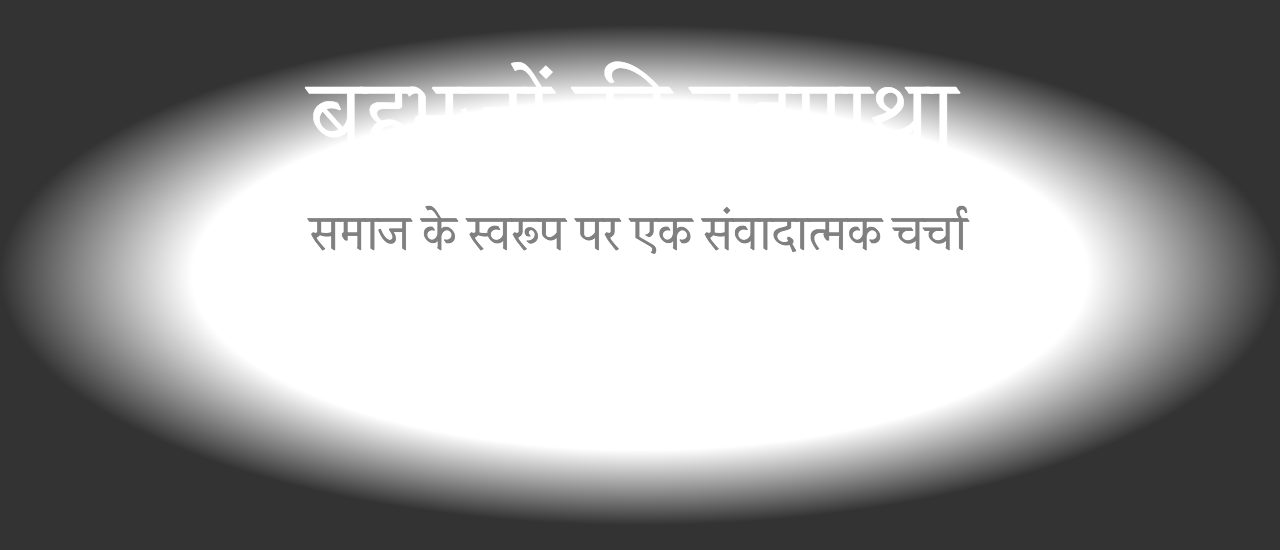
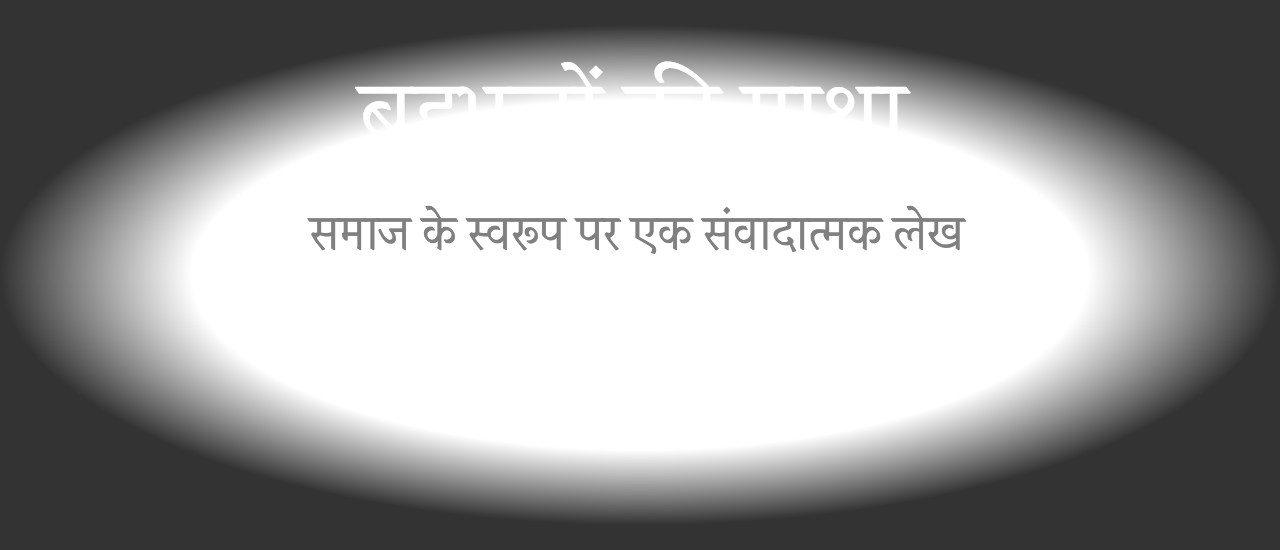
corrections and enhancements

diff --git a/index.html b/index.html
@@ -3,30 +3,30 @@
 <head>
 
 	<!-- Place this data between the <head> tags of your website -->
-	<title>बहुभुजों की बहुगाथा - समाज के स्वरूप पर एक संवादात्मक चर्चा</title>
-	<meta name="description" content="निर्दोष चयनों से उत्पन होने वाले हानिकारक समाज पे एक संवादात्मक चर्चा।" />
+	<title>बहुभुजों की गाथा - समाज के स्वरूप पर एक संवादात्मक लेख</title>
+	<meta name="description" content="निर्दोष चयनों से उत्पन होने वाले हानिकारक समाज पे एक संवादात्मक लेख।" />
 	<link rel="icon" type="image/png" href="favicon.png">
 
 	<!-- Schema.org markup for Google+ -->
-	<meta itemprop="name" content="बहुभुजों की बहुगाथा">
-	<meta itemprop="description" content="निर्दोष चयनों से उत्पन होने वाले हानिकारक समाज पे एक संवादात्मक चर्चा।">
+	<meta itemprop="name" content="बहुभुजों की गाथा">
+	<meta itemprop="description" content="निर्दोष चयनों से उत्पन होने वाले हानिकारक समाज पे एक संवादात्मक लेख।">
 	<meta itemprop="image" content="http://ncase.me/polygons/social/thumbnail.png">
 
 	<!-- Twitter Card data -->
 	<meta name="twitter:card" content="summary_large_image">
 	<meta name="twitter:site" content="@ncasenmare">
-	<meta name="twitter:title" content="बहुभुजों की बहुगाथा">
-	<meta name="twitter:description" content="निर्दोष चयनों से उत्पन होने वाले हानिकारक समाज पे एक संवादात्मक चर्चा।">
+	<meta name="twitter:title" content="बहुभुजों की गाथा">
+	<meta name="twitter:description" content="निर्दोष चयनों से उत्पन होने वाले हानिकारक समाज पे एक संवादात्मक लेख।">
 	<meta name="twitter:creator" content="@vihartvihart">
 	<meta name="twitter:image" content="http://ncase.me/polygons/social/thumbnail.png">
 
 	<!-- Open Graph data -->
-	<meta property="og:title" content="बहुभुजों की बहुगाथा">
+	<meta property="og:title" content="बहुभुजों की गाथा">
 	<meta property="og:type" content="website">
 	<meta property="og:url" content="http://ncase.me/polygons">
 	<meta property="og:image" content="http://ncase.me/polygons/social/thumbnail.png">
-	<meta property="og:description" content="निर्दोष चयनों से उत्पन होने वाले हानिकारक समाज पे एक संवादात्मक चर्चा।">
-	<meta property="og:site_name" content="बहुभुजों की बहुगाथा">
+	<meta property="og:description" content="निर्दोष चयनों से उत्पन होने वाले हानिकारक समाज पे एक संवादात्मक लेख।">
+	<meta property="og:site_name" content="बहुभुजों की गाथा">
 
 	<!-- CSS -->
 	<link href="css/index.css" rel="stylesheet" type="text/css">
@@ -52,20 +52,20 @@
 
 		<p><strong>यह निर्दोष चयनों से उत्पन होने वाले हानिकारक समाज की कहानी है।</strong></p>
 		<p>
-			इन प्यारे बहुभुजों में से कुछ त्रिकोण हैं, कुछ चौकोर। पर ये बहुभुज थोड़े से "आकारवादी" हैं। पर बहुत ही थोड़े से! वास्तव में हर कोई विविध पड़ोसियों के बीच <i>ही</i> सुखी है।
+			इन प्यारे बहुभुजों में से कुछ त्रिकोण हैं, कुछ चौकोर। और सब के सब थोड़े से "आकारवादी" हैं। पर बहुत ही थोड़े से! वास्तव में हर कोई विविध पड़ोसियों के बीच <i>ही</i> सुखी है।
 		</p>
 
 		<iframe id="mini_intro" playable src="play/mini/mini_intro.html" width="800" height="385" scrolling="no" style="margin:0 auto;display:block" embedded></iframe>
 
 		<p>
-			किसी बहुभुज को तभि हिलाया जा सकता है यदि वह अपने पड़ोसियों के बीच उदास हो।
-			यदि वह अपने स्थान पर सुखी है, <i>तो उसे तब तक नहीं हिलाया जा सकता जब तक वह फिर से अपने पड़ोसियों के बीच उदास न हो जाए</i>।
+			एक बहुभुज को तभी हिलाया जा सकता है यदि वह अपने पड़ोसियों के बीच उदास हो।
+			गर वह अपने स्थान पर सुखी है, <i>तो उसे तब तक नहीं हिलाया जा सकता जब तक वह फिर से अपने पड़ोसियों के बीच उदास न हो जाए</i>।
 			यह बहुभुज एक सरल नीयम का पालन करते हैं:
 		</p>
 
 		<p style="text-align:center">
 			<b>
-			“यदि मेरे पड़ोसियों में कम से कम १/३ मेरे हम-आकार नहीं हैं, तो मैं अपना स्थान बदलना चाहूँगा।”
+			“यदि मेरे पड़ोसियों में <i>हमआकार</i> १/३ से कम हैं, तो मैं अपना स्थान बदलना चाहूँगा।”
 			</b>
 		</p>
 		<iframe playable src="play/mini/mini_unhappy.html" width="250" height="320" scrolling="no" style="float:left; margin:0; margin-left:10px; position:relative; left:-30px"  embedded></iframe>
@@ -77,7 +77,7 @@
 		</div>
 
 		<p>
-			कितना हानिहीन आकार-समाज है ना यह? हर बहुभुज विविध पड़ोसियों के बीच सुखी है। 
+			कितना हानिहीन आकार समाज है ना यह? हर बहुभुज विविध पड़ोसियों के बीच सुखी है। 
 			क्या इनका लघु आकारवाद इस समाज के स्वरूप को प्रभावित कर पाएगा? आईए देखें..
 		</p>
 		<div class="instruction">
@@ -95,20 +95,20 @@
 	<!-- CHAPTER -->
 	<div class="chapter"> 
 		<p>
-			देखा आपने, यह आकार-समाज किस तरह पृथक हो गया?
+			देखा आपने, यह आकार समाज किस तरह पृथक हो गया?
 		</p>
 		<p>
-			कभी एक पड़ोस में चौकोर ज़्यादा हो जाते हैं, पर यह उनका दोष नहीं यदि त्रिकोण वहाँ से प्रवास कर जाते हैं। इसि प्रकार, किसी भी त्रिकोण-पड़ोस में एक नए चौकोर का स्वागत होगा, पर यह उनका दोष नहीं कि कोई चौकोर वहाँ बसना नहीं चाहते।
+			कभी एक पड़ोस में चौकोर ज़्यादा हो जाते हैं, पर यह उनका दोष नहीं कि त्रिकोण वहाँ से प्रवास कर जाते हैं। इसि प्रकार, किसी भी त्रिकोण-पड़ोस में एक नए चौकोर का स्वागत होगा, पर यह उनका दोष नहीं कि कोई चौकोर वहाँ बसना नहीं चाहता।
 		</p>
 		
 		<iframe id="mini_neighborhood" playable src="play/mini/mini_neighborhood.html" width="730" height="240" scrolling="no" style="margin:0 auto;display:block" embedded></iframe>
 
 		<p>
-			अगले अनुकरण में उदास बहुभुज किसी भी अनियमित स्थान पर अपने आप चले जाते हैं।
-			एक लेखा-चित्र में समय के साथ बदलती आकार-समाज की पृथक्करण मात्रा का भी चित्रण है।
+			अगले अनुरूपण में उदास बहुभुज किसी भी अनियमित स्थान पर अपने आप चले जाते हैं।
+			एक लेखाचित्र में समय के साथ बदलती आकार समाज की पृथक्करण मात्रा का भी चित्रण है।
 		</p>
 		<div class="instruction">
-			इस अनुकरण को कुछ बार चलाकर देखिए कि क्या होता है।
+			इस अनुरूपण को कुछ बार चलाकर देखिए कि क्या होता है।
 		</div>
 	</div>
 
@@ -120,7 +120,7 @@
 	<!-- CHAPTER -->
 	<div class="chapter">
 		<p>
-			यह क्यूँ हो रहा है? हर किसी का आकारवादी झुकाव बहुत ही लघु है, पर समूचा आकार-समाज जुदा हो जाता है।
+			यह क्यूँ हो रहा है? हर किसी का आकारवादी झुकाव बहुत ही लघु है, पर समूचा आकार समाज जुदा हो जाता है।
 		</p>
 		
 		<iframe id="mini_checkerboard" playable src="play/mini/mini_checkerboard.html" width="730" height="240" scrolling="no" style="margin:0 auto;display:block" embedded></iframe>
@@ -130,11 +130,11 @@
 		</p>
 		<p>	
 			समानता एक अस्थिर संतुलन है।
-			बहुत ही लघु व्यक्तिगत झुकाव पूरे समाज को पृथक्करण की चिकनी ढलान पे धकेल सकता है।
+			बहुत ही लघु व्यक्तिगत झुकाव पूरे समाज को पृथक्करण की चिकनी ढलान पर धकेल सकता है।
 			पर क्या होगा यदि इन बहुभुजों का आकारवाद समाप्त कर दिया जाए? (या बढ़ा दिया जाए?)
 		</p>
 		<div class="instruction">
-			स्लाईडर द्वारा बहुभुजों की आकारवाद मात्रा बदलें:
+			स्लाईडर द्वारा बहुभुजों का आकारवादी झुकाव बदलें:
 		</div>
 	</div>
 
@@ -159,7 +159,7 @@
 		</div>
 
 		<p>
-			तो क्या सबका आकारवादी झुकाव शून्य कर देना ही समाधान है? नहीं! वास्तविक समाज में लोग पहले से ही अनियमित ढंग से नहीं बसे होंगे। और ना ही प्रतिदिन इस प्रकार फेरबदल करेंगे।
+			तो क्या सबका आकारवादी झुकाव शून्य कर देना ही समाधान है? नहीं! वास्तविक समाज में लोग पूर्वतः अनियमित ढंग से नहीं बसे होंगे, और ना ही प्रतिदिन इस प्रकार फेरबदल करेंगे।
 		</p>
 
 		<div class="instruction">
@@ -184,7 +184,7 @@
 		<iframe id="mini_nonconform" playable src="play/mini/mini_nonconform.html" width="400" height="440" scrolling="no" style="margin:0 auto;display:block" embedded></iframe>
 
 		<p>
-			ये क्या? यद्यपि हर बहुभुज ९०% तक भी हम-आकार पड़ोसी होने से सहमत हैं, परन्तु समाज की विविधता बढ़ गयी!
+			ये क्या? यद्यपि हर बहुभुज ९०% तक भी हमआकार पड़ोसी होने से सहमत हैं, परन्तु समाज की विविधता बढ़ गयी!
 			इसी को अब बड़े स्तर पर देखते हैं।
 			अब हम बहुभुजों के आकारवादी झुकाव के साथ-साथ "विविधतावादी" झुकाव को भी बदल पाएँगे।
 		</p>
@@ -206,7 +206,7 @@
 		</p>
 		<p style="text-align:center">
 			<b>
-				इन सब को
+				इन बहुभुजों को
 				<span style="color:hsl(0,90%,60%)">मि</span>
 				<span style="color:hsl(108,90%,60%)">त्र</span>
 				<span style="color:hsl(216,90%,60%)">ता</span>	
@@ -223,7 +223,7 @@
 		</p>
 
 		<div class="instruction">
-			अंततः, एक सम्पूर्ण अनुकरण, प्रयोग के लिए।
+			अंततः, एक सम्पूर्ण अनुरूपण, प्रयोग के लिए।
 		</div>
 	</div>
 
@@ -246,7 +246,7 @@
 		<p>
 			<b>२. अतीत वर्तमान को प्रभावित करता है।</b>
 			<br>
-			मेज़ पर खाना गीराना बंद करने से वह अपने आप हमेशा साफ नहीं रहता। 
+			मेज़ पर खाना गीराना बंद करने से वह अपने आप हमेशा साफ नहीं रहेगा। 
 			समानता बनाए रखना स्वच्छता बनाए रखने के समान है। इसके लिए निरंतर श्रम करने की ज़रूरत है।
 		</p>
 		<p>
@@ -270,14 +270,14 @@
 				यह पृथक्करण की चर्चा नोबेल पुरस्क्रित सिद्धांतकार Thomas Schelling के कार्य पर आधारित है; विशेषतः उनके १९७१ में प्रकाशित लेख, 
 				<a target="_blank" href="http://www.stat.berkeley.edu/~aldous/157/Papers/Schelling_Seg_Models.pdf">
 				Dynamic Models of Segregation</a> पर।
-				इस लेख के तत्वों पे आगे गठन करते हुए, हमने दर्शाया कि कैसे बहुत ही थोड़ी विविधता की माँग से पूर्व-पृथक्कृत समाज को सुधारा जा सकता है। 
+				इस लेख के तत्वों पे आगे गठन करते हुए, हमने दर्शाया कि कैसे ज़रा सी विविधता की माँग से पूर्व-पृथक्कृत समाज को सुधारा जा सकता है। 
 				दूसरे शब्दों में, हमने उनके माॅडल को एक सुखद अंजाम दिया। 
 
 				<br><br>
 
 				यद्यपि Schelling के माॅडल का सार सही है, परन्तु वास्तविक जीवन निश्चित रूप से काफि ज़्यादा जटिल है। 
 				यदि आपकी वास्तविक डाटा में रूचि है, तो आप W.A.V. Clark का १९९१ में प्रकाशित लेख,
-				<a target="_blank" href="http://smg.media.mit.edu/library/Clark.ResidentialSegregation.pdf">A Test of the Schelling Segregation Model</a> पढ़ सकते हैं।
+				<a target="_blank" href="http://smg.media.mit.edu/library/Clark.ResidentialSegregation.pdf">A Test of the Schelling Segregation Model</a>, पढ़ सकते हैं।
 
 				<br><br>
 
@@ -291,7 +291,7 @@
 
 				<br><br>
 
-				आज का "मूल नैतिक संदेश&trade;" है कि अपने आस-पड़ोस में ज़रा सी विविधता की माँग व्यापक बदलाव का कारण बन सकती है। 
+				आज का "मूल नैतिक संदेश&trade;" यह है कि अपने आस-पड़ोस में ज़रा सी विविधता की माँग व्यापक बदलाव का कारण बन सकती है। 
 				<a target="_blank" href="http://plzdiversifyyourpanel.tumblr.com/">Plz Diversify Your Panel</a> एक पहल है जहाँ वक्ता प्रण लेते हैं कि वे ऐसे पैनल में भाग नहीं लेंगे जिनमें विविधता का अभाव हो।  
 
 				<br><br>
@@ -327,7 +327,7 @@
 					- ओपन सोर्स आदर्श से जुड़ी स्त्रियों का समर्थन करते हैं
 					<br>
 					<a target="_blank" href="http://www.patreon.com/ncase">Nicky's Patreon</a>
-					- सार्वजनिक क्षेत्र में संवादात्मक लेख बनाती हैं (इस लेख की तरह!)
+					- सार्वजनिक क्षेत्र में संवादात्मक कृतियाँ बनाती है (इस लेख की तरह!)
 
 				</span>
 

diff --git a/play/outro/outro.html b/play/outro/outro.html
@@ -65,12 +65,12 @@
 
 			शेयर कीजिए<span style="position:relative;top:-5px">:</span>
 
-			<a data-popup-url="https://www.facebook.com/sharer.php?u=http%3A%2F%2Fncase.me%2Fpolygons%2F&amp;t=बहुभुजों की बहुगाथा: निर्दोष चयनों से उत्पन होने वाले हानिकारक समाज पे एक संवादात्मक चर्चा।"
+			<a data-popup-url="https://www.facebook.com/sharer.php?u=http%3A%2F%2Fncase.me%2Fpolygons%2F&amp;t=बहुभुजों की गाथा: निर्दोष चयनों से उत्पन होने वाले हानिकारक समाज पे एक संवादात्मक लेख।"
 				data-popup-width="626" data-popup-height="436"
 				onclick="return sharePopup.call(this,event);">
 				<img src="icons/facebook.png" width="60" height="60"/></a>
 
-			<a data-popup-url="https://twitter.com/share?url=http%3A%2F%2Fncase.me%2Fpolygons%2F&amp;text=बहुभुजों की बहुगाथा: निर्दोष चयनों से उत्पन होने वाले हानिकारक समाज पे एक संवादात्मक चर्चा। @vihartvihart एवं @ncasenmare द्वारा।"
+			<a data-popup-url="https://twitter.com/share?url=http%3A%2F%2Fncase.me%2Fpolygons%2F&amp;text=बहुभुजों की गाथा: निर्दोष चयनों से उत्पन होने वाले हानिकारक समाज पे एक संवादात्मक लेख। @vihartvihart एवं @ncasenmare द्वारा।"
 				data-popup-width="640" data-popup-height="400"
 				onclick="return sharePopup.call(this,event);">
 				<img src="icons/twitter.png" width="60" height="60"/></a>
@@ -80,12 +80,12 @@
 				onclick="return sharePopup.call(this,event);">
 				<img src="icons/googleplus.png" width="60" height="60"/></a>
 
-			<a data-popup-url="https://www.tumblr.com/share/link?url=http%3A%2F%2Fncase.me%2Fpolygons%2F&amp;name=बहुभुजों की बहुगाथा&amp;description=निर्दोष चयनों से उत्पन होने वाले हानिकारक समाज पे एक संवादात्मक चर्चा।"
+			<a data-popup-url="https://www.tumblr.com/share/link?url=http%3A%2F%2Fncase.me%2Fpolygons%2F&amp;name=बहुभुजों की गाथा&amp;description=निर्दोष चयनों से उत्पन होने वाले हानिकारक समाज पे एक संवादात्मक लेख।"
 				data-popup-width="446" data-popup-height="430"
 				onclick="return sharePopup.call(this,event);">
 				<img src="icons/tumblr.png" width="60" height="60"/></a>
 
-			<a href="http://www.reddit.com/submit" onclick="window.open('http://www.reddit.com/submit?v=5&amp;noui&amp;jump=close&amp;url='+encodeURIComponent(location.href)+'&amp;title='+encodeURIComponent(document.title), 'बहुभुजों की बहुगाथा','toolbar=no,width=840,height=750'); return false;">
+			<a href="http://www.reddit.com/submit" onclick="window.open('http://www.reddit.com/submit?v=5&amp;noui&amp;jump=close&amp;url='+encodeURIComponent(location.href)+'&amp;title='+encodeURIComponent(document.title), 'बहुभुजों की गाथा','toolbar=no,width=840,height=750'); return false;">
         		<img src="icons/reddit.png" alt="submit to reddit" width="60" height="60" border="0"/></a>
 
 			<a href="http://www.stumbleupon.com/submit?url=http://ncase.me/polygons/" target="_blank">
@@ -104,7 +104,7 @@
 				हम हैं - <a href="http://vihart.com/" target="_blank">vi hart</a> और <a href="http://www.patreon.com/ncase" target="_blank">nicky case</a>.
 			</div>
 			<div style="width:600px; margin:25px auto; font-size:18px; letter-spacing:0; font-weight:normal">
-				हमें बताईए कि आप "बहुभुजों की बहुगाथा" का किस प्रकार उपयोग और प्रयोग कर रहे हैं!
+				हमें बताईए कि आप "बहुभुजों की गाथा" का किस प्रकार उपयोग और प्रयोग कर रहे हैं!
 				<br>
 				हमें
 				<a href="https://twitter.com/vihartvihart" target="_blank">@vihartvihart</a> और 

diff --git a/play/intro/intro.html b/play/intro/intro.html
@@ -39,7 +39,7 @@
 		<canvas id="canvas" width="1280" height="300" style="position:absolute;bottom:0"></canvas>
 		<div id="intro_shading"></div>
 		<div id="intro_text">
-			द्वारा <a href="http://vihart.com/" target="_blank">vi hart</a> + <a href="http://www.patreon.com/ncase" target="_blank">nicky case</a>
+			<a href="http://vihart.com/" target="_blank">vi hart</a> + <a href="http://www.patreon.com/ncase" target="_blank">nicky case</a> द्वारा 
 			<div style='font-size:14px; letter-spacing:0; line-height:20px; margin-top:15px'>
 				<a target="_parent" href="http://ncase.me/polygons-es">español</a>
 				|

diff --git a/play/automatic/automatic_sandbox.html b/play/automatic/automatic_sandbox.html
@@ -21,7 +21,7 @@
 			</div>
 
 			मैं स्थान बदलूँगा यदि <span class="highlight"><span id="bias_text">33%</span> से कम</span> 
-			या <span class="highlight"><span id="nonconform_text">100%</span> से ज़्यादा</span> पड़ोसी हम-आकार हों
+			या <span class="highlight"><span id="nonconform_text">100%</span> से ज़्यादा</span> पड़ोसी हमआकार हों
 			<br>
 			<div id="slider"></div>
 			<br>

diff --git a/play/automatic/automatic4.html b/play/automatic/automatic4.html
@@ -16,7 +16,7 @@
 			</div>
 
 			मैं स्थान बदलूँगा यदि <span class="highlight"><span id="bias_text">33%</span> से कम</span> 
-			या <span class="highlight"><span id="nonconform_text">100%</span> से ज़्यदा</span> पड़ोसी हम-आकार हों
+			या <span class="highlight"><span id="nonconform_text">100%</span> से ज़्यदा</span> पड़ोसी हमआकार हों
 			<br>
 			<div id="slider"></div>
 			<br>

diff --git a/play/automatic/automatic2.html b/play/automatic/automatic2.html
@@ -15,7 +15,7 @@
 				<div id="stats_text"></div>
 			</div>
 
-			यदि मेरे हम-आकार पड़ोसी <span class="highlight"><span id="bias_text">33%</span> से कम हैं</span> तो मैं स्थान बदलूँगा
+			यदि मेरे हमआकार पड़ोसी <span class="highlight"><span id="bias_text">33%</span> से कम हैं</span> तो मैं स्थान बदलूँगा
 			<br>
 			<div id="slider"></div>
 			<br>

diff --git a/play/automatic/automatic3.html b/play/automatic/automatic3.html
@@ -15,7 +15,7 @@
 				<div id="stats_text"></div>
 			</div>
 
-			यदि मेरे हम-आकार पड़ोसी <span class="highlight"><span id="bias_text">33%</span> से कम हैं</span> तो मैं स्थान बदलूँगा
+			यदि मेरे हमआकार पड़ोसी <span class="highlight"><span id="bias_text">33%</span> से कम हैं</span> तो मैं स्थान बदलूँगा
 			<br>
 			<div id="slider"></div>
 			<br>

diff --git a/play/mini/mini_bored.html b/play/mini/mini_bored.html
@@ -8,7 +8,7 @@
 	<br>
 	<div style="text-align:center; margin:10px 0; color:#777; font-size:15px">
 		<span style="color:#dd3939">विरक्त:</span>
-		सारे पड़ोसी हम-आकार। (पड़ोसियों की अनुपस्थिती में भी विरकत)
+		सारे पड़ोसी हमआकार। (पड़ोसियों की अनुपस्थिती में भी विरक्त)
 	</div>
 
 	<script>

diff --git a/play/mini/mini_nonconform.html b/play/mini/mini_nonconform.html
@@ -7,7 +7,7 @@
 	<canvas id="canvas"></canvas>
 	<br>
 	<div style="text-align:center; margin:0px 0; color:#777">
-		यदि पड़ोसियों में से <span style="color:#dd3939">९०% से ज़्यादा</span> हम-आकार
+		यदि पड़ोसियों में से <span style="color:#dd3939">९०% से ज़्यादा</span> हमआकार
 		<br>
 		हैं तो मैं स्थान बदलूँगा
 	</div>

diff --git a/play/mini/mini_bias_1.html b/play/mini/mini_bias_1.html
@@ -7,7 +7,7 @@
 	<canvas id="canvas"></canvas>
 	<br>
 	<div style="text-align:center; margin:10px 0; color:#777">
-		यदि हम-आकार पड़ोसी <span style="color:#dd3939">३३% से कम हैं</span> तो
+		यदि हमआकार पड़ोसी <span style="color:#dd3939">३३% से कम हैं</span> तो
 		<br>
 		मैं स्थान बदलूँगा
 	</div>

diff --git a/play/mini/mini_bias_2.html b/play/mini/mini_bias_2.html
@@ -7,7 +7,7 @@
 	<canvas id="canvas"></canvas>
 	<br>
 	<div style="text-align:center; margin:10px 0; color:#777">
-		यदि हम-आकार पड़ोसी <span style="color:#dd3939">५०% से कम हैं</span> तो
+		यदि हमआकार पड़ोसी <span style="color:#dd3939">५०% से कम हैं</span> तो
 		<br>
 		मैं स्थान बदलूँगा
 	</div>

diff --git a/play/mini/mini_unhappy.html b/play/mini/mini_unhappy.html
@@ -8,7 +8,7 @@
 	<br>
 	<div style="text-align:center; margin:10px 0; color:#777; font-size:15px">
 		<span style="color:#dd3939">उदास:</span>
-		६ पड़ोसियों में से १ हम-आकार। १/३ से कम।
+		६ पड़ोसियों में से १ हमआकार। १/३ से कम।
 	</div>
 
 	<script>
